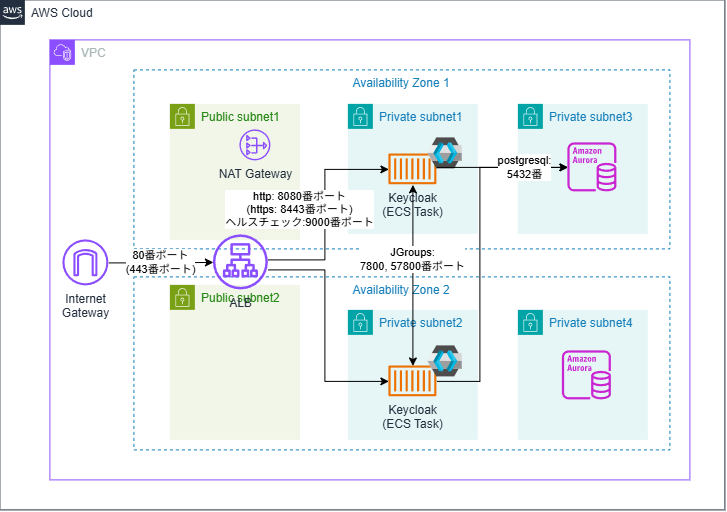
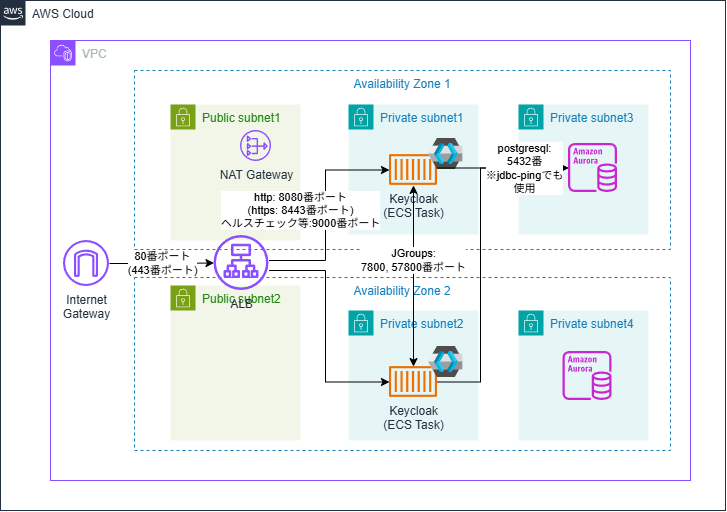
README修正

diff --git a/README.md b/README.md
@@ -44,12 +44,16 @@
             * アクセストークンの検証には、イントロスペクションエンドポイントに対応した例になっている。
 
     * Keycloakは、ECSで可用性構成でデプロイされるようになっている。
-        * [分散キャッシュ](https://www.keycloak.org/server/caching)の仕組みとしてデフォルト設定のjdbc-ping方式でクラスタノードのヘルスチェックを行う設定となっている。
-            * この他、DNS_PING方式もあるそうで、コンテナ環境ではDNS_PINGを利用するケースが多いとのこと。
+        * [分散キャッシュ](https://www.keycloak.org/server/caching)の仕組みとして、Infinispanを利用している。
+        * クラスタノード間の通信には、Infinispanの各ノード間で7800番ポートを使用し、各ノードの状態を効率的に共有できる。
+            * 57800番は障害検知用ポート
+        * クラスタに参加する他のノードを検知するのには、デフォルト設定のjdbc-ping方式で追跡するようになっている。
         * ALBを用いたロードバランシングが構成されている。
-            * 簡易的な開発用のため、httpでのアクセス構成となっている。httpsでのアクセスは現状未対応。
+            * 簡易的な開発用のため、httpでのアクセス構成となっている。httpsでのアクセスまでは現状未対応。
+            * Keycloakでは、通常の8080/8443でのアクセスとは別に、ヘルスチェックやメトリックス取得用に管理インタフェースが9000番ポートで提供されている。
         * DBは、業務DBと同様に、Aurora Serverless v2 for Postgresを使用している。
-        
+            * 個人環境での簡易的な開発用のため、コスト節約で、業務DBのAuroraと共用しているが、本来は別で構築したほうがよい。
+ 
         ![Keycloak構成図](img/keycloak.png)
 
 
